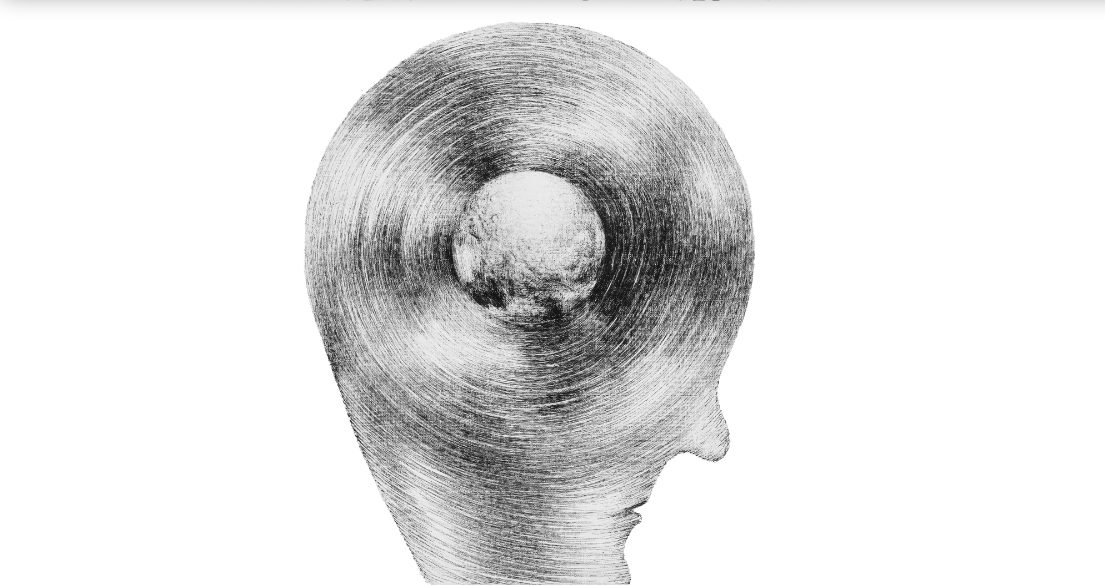
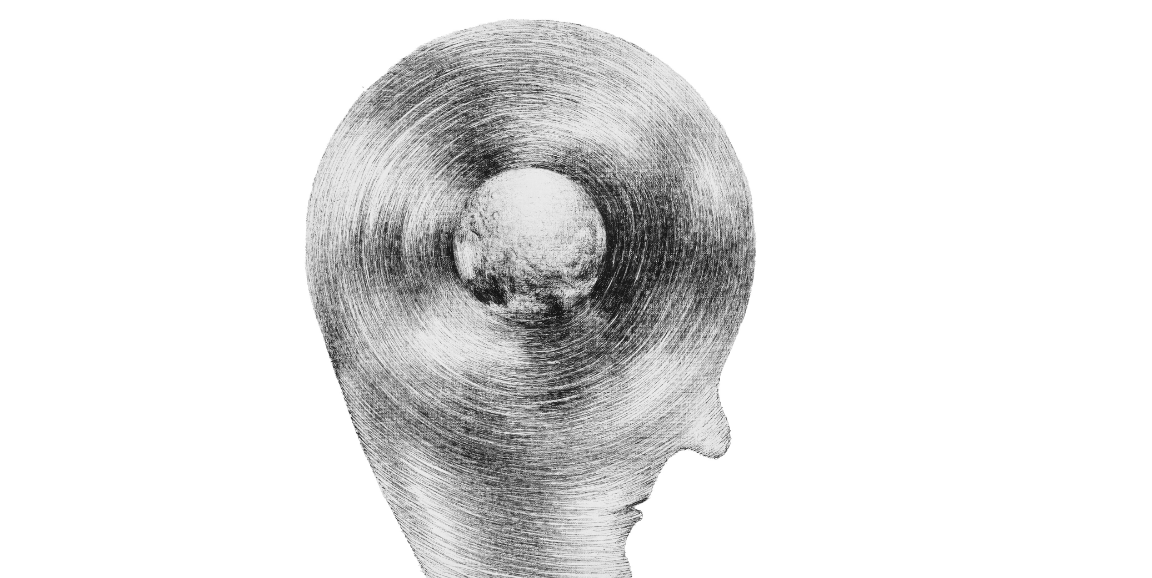
main

Changed region(s): [[0.0308, 0.0, 1.0, 1.0]]

diff --git a/index.html b/index.html
@@ -45,34 +45,36 @@
                     <a href="#">Tickets</a>
                 </li>
             </ul>
-            
+
         </nav>
     </header>
+    
+    <main>
+        <section class="expo">
+            <div class="gradient"></div>
+            <img src="./assets/off-planet-perspective.png" alt="Off Planet Perspective">
+            <h2>Off Planet Perspective</h2>
+            <div class="buttons">
+                <a href="#">Haal hier je Tickets</a>
+                <a href="#">Bekijk hier meer exposities</a>
+            </div>
+        </section>
 
-    <section class="catalog">
-        <div></div>
-        <img src="./assets/Fata-chymica-in-Beschreibung-der-wahren-und-falschen-Chymie.png"
-            alt="cover van Fata chymica in Beschreibung der wahren und falschen Chymie">
-        <h2>bekijk de online catalogus</h2>
-        <div>
-            <button>Haal hier je Tickets</button>
-            <button>Bekijk hier de catalog</button>
-        </div>
-    </section>
+        <section class="catalogus">
+            <div class="gradient"></div>
+            <img src="./assets/Fata-chymica-in-Beschreibung-der-wahren-und-falschen-Chymie.png"
+                alt="cover van Fata chymica in Beschreibung der wahren und falschen Chymie">
+            <h2>Bekijk de online catalogus</h2>
+            <div class="buttons">
 
-    <section class="expo">
-        <div></div>
-        <img src="./assets/off-planet-perspective.png" alt="Off Planet Perspective">
-        <h2>Off Planet Perspective</h2>
-        <div>
-            <button>Bekijk hier meer exposities</button>
-        </div>
-    </section>
-
+                <a href="#">Bekijk hier de catalog</a>
+            </div>
+        </section>
+    </main>
     <footer>
         <a href="#">Support</a>
         <a href="#">Press</a>
-        <a href="#">
+        <a href="#">partners
             <img src="./assets/unesco.png" alt="Unesco logo">
         </a>
     </footer>

diff --git a/styles/styles.css b/styles/styles.css
@@ -8,6 +8,7 @@ html {
     --shadow:#001B32;
     --gold:#BF9A5D;
     --lightblue:#8FB8C9;
+    --trgold:rgb(191 154 93/ 0.6);
     
 }
 
@@ -15,9 +16,6 @@ body {
     margin: 0;
     font-family: Arial, sans-serif;
     background: var(--main);
-    
-
-
 }
 
 /* header */
@@ -140,19 +138,61 @@ header {
 
     /* main */
 
-section {
+main {
+    padding: 1px;
+}
 
-    div {
+section {
+    position: relative;
+    max-height: 35em;
+    overflow:hidden;
+    padding:5px;
+
+    .gradient {
+        position: absolute;
+        width: 100%;
+        height: 35em;
         background-image: 
             linear-gradient(
-                200deg
-                var(--gold),
-                transparent
+                130deg,
+                var(--trgold) 25%,
+                transparent 85%
             );
     }
     
 
     img {
      width: 100%;
+     
+    }
+
+    h2 {
+        position: absolute;
+        z-index: 2;
+        top: 10%;
+        left: 5%;
+        color: var(--shadow);
+        font-size: 2.5em;
+    }
+
+    .buttons {
+        position: absolute;
+        bottom: clamp(1em, 5vw, 3em);
+        right: clamp(1em, 5vw, 3em);
+        left: clamp(1em, 5vw, 3em);
+        display:flex;
+        justify-content: end;
+        gap: 1em;
+        
+        
+        a {
+            text-decoration: none;
+            color:var(--gold);
+            background-color: var(--shadow);
+            border-radius: 15px;
+            padding: 10px;
+            text-align: center;
+            font-size: 1.2em;
+        }
     }
 }
